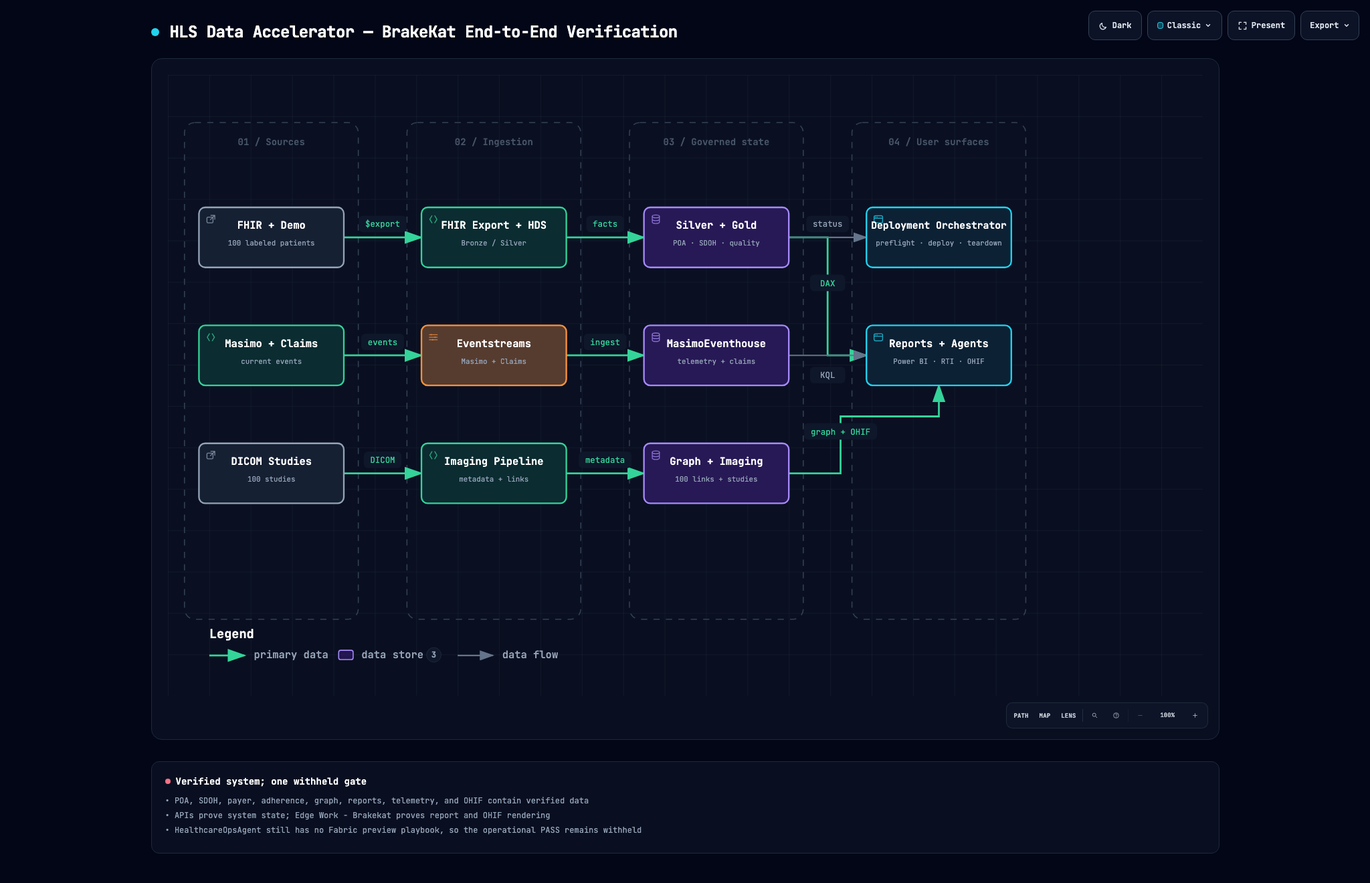
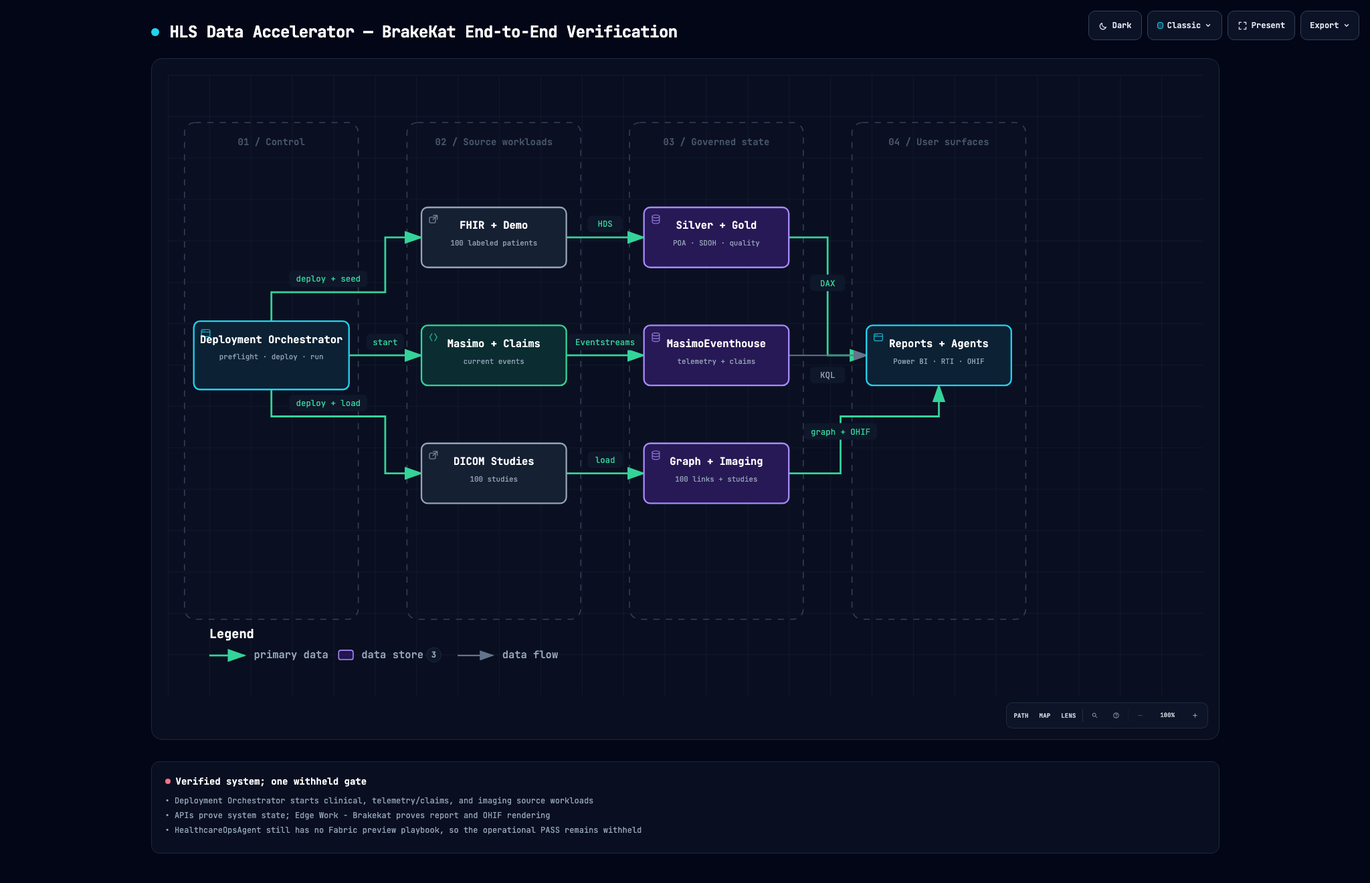
Correct orchestrator dependency flow

diff --git a/docs/hls-end-to-end-verification.html b/docs/hls-end-to-end-verification.html
@@ -5157,10 +5157,10 @@ OTHER DEALINGS IN THE FONT SOFTWARE.
 
         <!-- Data Stages -->
         <rect data-graph-role="structural-frame" data-composition-frame-kind="stage" data-composition-frame-id="0" x="16" y="46" width="168" height="480" rx="10" class="c-lane" stroke-width="1"/>
-        <text x="100" y="68" class="t-dim" font-size="9" font-weight="600" text-anchor="middle">01 / Sources</text>
+        <text x="100" y="68" class="t-dim" font-size="9" font-weight="600" text-anchor="middle">01 / Control</text>
 
         <rect data-graph-role="structural-frame" data-composition-frame-kind="stage" data-composition-frame-id="1" x="231" y="46" width="168" height="480" rx="10" class="c-lane" stroke-width="1"/>
-        <text x="315" y="68" class="t-dim" font-size="9" font-weight="600" text-anchor="middle">02 / Ingestion</text>
+        <text x="315" y="68" class="t-dim" font-size="9" font-weight="600" text-anchor="middle">02 / Source workloads</text>
 
         <rect data-graph-role="structural-frame" data-composition-frame-kind="stage" data-composition-frame-id="2" x="446" y="46" width="168" height="480" rx="10" class="c-lane" stroke-width="1"/>
         <text x="530" y="68" class="t-dim" font-size="9" font-weight="600" text-anchor="middle">03 / Governed state</text>
@@ -5169,93 +5169,53 @@ OTHER DEALINGS IN THE FONT SOFTWARE.
         <text x="745" y="68" class="t-dim" font-size="9" font-weight="600" text-anchor="middle">04 / User surfaces</text>
 
         <!-- Flow paths -->
-        <path data-edge-from="clinicalSources" data-edge-to="hdsIngest" data-edge-label="$export" data-edge-key="0" data-composition-points="170,157;245,157" d="M 170 157 L 245 157" class="a-emphasis" stroke-width="1.8" marker-end="url(#arrowhead-emphasis)"/>
-        <path data-edge-from="streamSources" data-edge-to="streamIngest" data-edge-label="events" data-edge-key="1" data-composition-points="170,271;245,271" d="M 170 271 L 245 271" class="a-emphasis" stroke-width="1.8" marker-end="url(#arrowhead-emphasis)"/>
-        <path data-edge-from="dicomSources" data-edge-to="imagingIngest" data-edge-label="DICOM" data-edge-key="2" data-composition-points="170,385;245,385" d="M 170 385 L 245 385" class="a-emphasis" stroke-width="1.8" marker-end="url(#arrowhead-emphasis)"/>
-        <path data-edge-from="hdsIngest" data-edge-to="lakehouseState" data-edge-label="facts" data-edge-key="3" data-composition-points="385,157;460,157" d="M 385 157 L 460 157" class="a-emphasis" stroke-width="1.8" marker-end="url(#arrowhead-emphasis)"/>
-        <path data-edge-from="streamIngest" data-edge-to="eventhouseState" data-edge-label="ingest" data-edge-key="4" data-composition-points="385,271;460,271" d="M 385 271 L 460 271" class="a-emphasis" stroke-width="1.8" marker-end="url(#arrowhead-emphasis)"/>
-        <path data-edge-from="imagingIngest" data-edge-to="semanticState" data-edge-label="metadata" data-edge-key="5" data-composition-points="385,385;460,385" d="M 385 385 L 460 385" class="a-emphasis" stroke-width="1.8" marker-end="url(#arrowhead-emphasis)"/>
+        <path data-edge-from="deploymentOrchestrator" data-edge-to="clinicalSources" data-edge-label="deploy + seed" data-edge-key="0" data-composition-points="100,238;100,210;210,210;210,157;245,157" d="M 100 238 L 100 210 L 210 210 L 210 157 L 245 157" class="a-emphasis" stroke-width="1.8" marker-end="url(#arrowhead-emphasis)"/>
+        <path data-edge-from="deploymentOrchestrator" data-edge-to="streamSources" data-edge-label="start" data-edge-key="1" data-composition-points="175,271;245,271" d="M 175 271 L 245 271" class="a-emphasis" stroke-width="1.8" marker-end="url(#arrowhead-emphasis)"/>
+        <path data-edge-from="deploymentOrchestrator" data-edge-to="dicomSources" data-edge-label="deploy + load" data-edge-key="2" data-composition-points="100,304;100,330;210,330;210,385;245,385" d="M 100 304 L 100 330 L 210 330 L 210 385 L 245 385" class="a-emphasis" stroke-width="1.8" marker-end="url(#arrowhead-emphasis)"/>
+        <path data-edge-from="clinicalSources" data-edge-to="lakehouseState" data-edge-label="HDS" data-edge-key="3" data-composition-points="385,157;460,157" d="M 385 157 L 460 157" class="a-emphasis" stroke-width="1.8" marker-end="url(#arrowhead-emphasis)"/>
+        <path data-edge-from="streamSources" data-edge-to="eventhouseState" data-edge-label="Eventstreams" data-edge-key="4" data-composition-points="385,271;460,271" d="M 385 271 L 460 271" class="a-emphasis" stroke-width="1.8" marker-end="url(#arrowhead-emphasis)"/>
+        <path data-edge-from="dicomSources" data-edge-to="semanticState" data-edge-label="load" data-edge-key="5" data-composition-points="385,385;460,385" d="M 385 385 L 460 385" class="a-emphasis" stroke-width="1.8" marker-end="url(#arrowhead-emphasis)"/>
         <path data-edge-from="lakehouseState" data-edge-to="surfaces" data-edge-label="DAX" data-edge-key="6" data-composition-points="600,157;637.5,157;637.5,271;675,271" d="M 600 157 L 637.5 157 L 637.5 271 L 675 271" class="a-emphasis" stroke-width="1.8" marker-end="url(#arrowhead-emphasis)"/>
         <path data-edge-from="eventhouseState" data-edge-to="surfaces" data-edge-label="KQL" data-edge-key="7" data-composition-points="600,271;675,271" d="M 600 271 L 675 271" class="a-default" stroke-width="1.4" marker-end="url(#arrowhead)"/>
         <path data-edge-from="semanticState" data-edge-to="surfaces" data-edge-label="graph + OHIF" data-edge-key="8" data-composition-points="600,385;650,385;650,330;745,330;745,300" d="M 600 385 L 650 385 L 650 330 L 745 330 L 745 300" class="a-emphasis" stroke-width="1.8" marker-end="url(#arrowhead-emphasis)"/>
-        <path data-edge-from="lakehouseState" data-edge-to="deploymentOrchestrator" data-edge-label="status" data-edge-key="9" data-composition-points="600,157;675,157" d="M 600 157 L 675 157" class="a-default" stroke-width="1.4" marker-end="url(#arrowhead)"/>
 
         <!-- Nodes -->
-        <g id="node-clinicalSources" data-node-id="clinicalSources" data-node-label="FHIR + Demo" tabindex="0" role="button" aria-label="Focus FHIR + Demo, 100 labeled patients, 01 / Sources" aria-pressed="false" data-node-kind="external" data-node-sublabel="100 labeled patients" data-node-tag="synthetic provenance" data-node-context="01 / Sources">
-          <title>FHIR + Demo · 100 labeled patients · 01 / Sources · synthetic provenance</title>
-          <rect x="30" y="128" width="140" height="58" rx="6" class="c-mask"/>
-          <rect x="30" y="128" width="140" height="58" rx="6" class="c-external" stroke-width="1.5"/>
-          <g aria-hidden="true" data-semantic-sigil="external" class="semantic-sigil s-external" transform="translate(36 134) scale(0.6875)">
-            <rect x="2.5" y="5" width="8.5" height="8" rx="1.5"/>
-            <path d="M8 2.5h5.5V8M13.5 2.5 7.5 8.5"/>
-          </g>
-          <text data-node-label="" data-detail-anchor="" x="100" y="149" class="t-primary" font-size="10" font-weight="600" text-anchor="middle">FHIR + Demo</text>
-          <text data-detail="context" x="100" y="165" class="t-muted" font-size="7" text-anchor="middle">100 labeled patients</text>
-        <text data-detail="fine" x="100" y="175" class="t-external" font-size="7" text-anchor="middle">synthetic provenance</text>
-        </g>
-
-        <g id="node-streamSources" data-node-id="streamSources" data-node-label="Masimo + Claims" tabindex="0" role="button" aria-label="Focus Masimo + Claims, current events, 01 / Sources" aria-pressed="false" data-node-kind="backend" data-node-sublabel="current events" data-node-tag="Resume from Now" data-node-context="01 / Sources">
-          <title>Masimo + Claims · current events · 01 / Sources · Resume from Now</title>
-          <rect x="30" y="242" width="140" height="58" rx="6" class="c-mask"/>
-          <rect x="30" y="242" width="140" height="58" rx="6" class="c-backend" stroke-width="1.5"/>
-          <g aria-hidden="true" data-semantic-sigil="backend" class="semantic-sigil s-backend" transform="translate(36 248) scale(0.6875)">
-            <path d="M6 3 3 8l3 5M10 3l3 5-3 5"/>
-          </g>
-          <text data-node-label="" data-detail-anchor="" x="100" y="263" class="t-primary" font-size="10" font-weight="600" text-anchor="middle">Masimo + Claims</text>
-          <text data-detail="context" x="100" y="279" class="t-muted" font-size="7" text-anchor="middle">current events</text>
-        <text data-detail="fine" x="100" y="289" class="t-backend" font-size="7" text-anchor="middle">Resume from Now</text>
-        </g>
-
-        <g id="node-dicomSources" data-node-id="dicomSources" data-node-label="DICOM Studies" tabindex="0" role="button" aria-label="Focus DICOM Studies, 100 studies, 01 / Sources" aria-pressed="false" data-node-kind="external" data-node-sublabel="100 studies" data-node-tag="model-linked" data-node-context="01 / Sources">
-          <title>DICOM Studies · 100 studies · 01 / Sources · model-linked</title>
-          <rect x="30" y="356" width="140" height="58" rx="6" class="c-mask"/>
-          <rect x="30" y="356" width="140" height="58" rx="6" class="c-external" stroke-width="1.5"/>
-          <g aria-hidden="true" data-semantic-sigil="external" class="semantic-sigil s-external" transform="translate(36 362) scale(0.6875)">
-            <rect x="2.5" y="5" width="8.5" height="8" rx="1.5"/>
-            <path d="M8 2.5h5.5V8M13.5 2.5 7.5 8.5"/>
-          </g>
-          <text data-node-label="" data-detail-anchor="" x="100" y="377" class="t-primary" font-size="10" font-weight="600" text-anchor="middle">DICOM Studies</text>
-          <text data-detail="context" x="100" y="393" class="t-muted" font-size="7" text-anchor="middle">100 studies</text>
-        <text data-detail="fine" x="100" y="403" class="t-external" font-size="7" text-anchor="middle">model-linked</text>
-        </g>
-
-        <g id="node-hdsIngest" data-node-id="hdsIngest" data-node-label="FHIR Export + HDS" tabindex="0" role="button" aria-label="Focus FHIR Export + HDS, Bronze / Silver, 02 / Ingestion" aria-pressed="false" data-node-kind="backend" data-node-sublabel="Bronze / Silver" data-node-tag="HDS 1.4" data-node-context="02 / Ingestion">
-          <title>FHIR Export + HDS · Bronze / Silver · 02 / Ingestion · HDS 1.4</title>
+        <g id="node-clinicalSources" data-node-id="clinicalSources" data-node-label="FHIR + Demo" tabindex="0" role="button" aria-label="Focus FHIR + Demo, 100 labeled patients, 02 / Source workloads" aria-pressed="false" data-node-kind="external" data-node-sublabel="100 labeled patients" data-node-tag="synthetic provenance" data-node-context="02 / Source workloads">
+          <title>FHIR + Demo · 100 labeled patients · 02 / Source workloads · synthetic provenance</title>
           <rect x="245" y="128" width="140" height="58" rx="6" class="c-mask"/>
-          <rect x="245" y="128" width="140" height="58" rx="6" class="c-backend" stroke-width="1.5"/>
-          <g aria-hidden="true" data-semantic-sigil="backend" class="semantic-sigil s-backend" transform="translate(251 134) scale(0.6875)">
-            <path d="M6 3 3 8l3 5M10 3l3 5-3 5"/>
+          <rect x="245" y="128" width="140" height="58" rx="6" class="c-external" stroke-width="1.5"/>
+          <g aria-hidden="true" data-semantic-sigil="external" class="semantic-sigil s-external" transform="translate(251 134) scale(0.6875)">
+            <rect x="2.5" y="5" width="8.5" height="8" rx="1.5"/>
+            <path d="M8 2.5h5.5V8M13.5 2.5 7.5 8.5"/>
           </g>
-          <text data-node-label="" data-detail-anchor="" x="315" y="149" class="t-primary" font-size="10" font-weight="600" text-anchor="middle">FHIR Export + HDS</text>
-          <text data-detail="context" x="315" y="165" class="t-muted" font-size="7" text-anchor="middle">Bronze / Silver</text>
-        <text data-detail="fine" x="315" y="175" class="t-backend" font-size="7" text-anchor="middle">HDS 1.4</text>
+          <text data-node-label="" data-detail-anchor="" x="315" y="149" class="t-primary" font-size="10" font-weight="600" text-anchor="middle">FHIR + Demo</text>
+          <text data-detail="context" x="315" y="165" class="t-muted" font-size="7" text-anchor="middle">100 labeled patients</text>
+        <text data-detail="fine" x="315" y="175" class="t-external" font-size="7" text-anchor="middle">synthetic provenance</text>
         </g>
 
-        <g id="node-streamIngest" data-node-id="streamIngest" data-node-label="Eventstreams" tabindex="0" role="button" aria-label="Focus Eventstreams, Masimo + Claims, 02 / Ingestion" aria-pressed="false" data-node-kind="messagebus" data-node-sublabel="Masimo + Claims" data-node-tag="all nodes Running" data-node-context="02 / Ingestion">
-          <title>Eventstreams · Masimo + Claims · 02 / Ingestion · all nodes Running</title>
+        <g id="node-streamSources" data-node-id="streamSources" data-node-label="Masimo + Claims" tabindex="0" role="button" aria-label="Focus Masimo + Claims, current events, 02 / Source workloads" aria-pressed="false" data-node-kind="backend" data-node-sublabel="current events" data-node-tag="Resume from Now" data-node-context="02 / Source workloads">
+          <title>Masimo + Claims · current events · 02 / Source workloads · Resume from Now</title>
           <rect x="245" y="242" width="140" height="58" rx="6" class="c-mask"/>
-          <rect x="245" y="242" width="140" height="58" rx="6" class="c-messagebus" stroke-width="1.5"/>
-          <g aria-hidden="true" data-semantic-sigil="messagebus" class="semantic-sigil s-messagebus" transform="translate(251 248) scale(0.6875)">
-            <path d="M2.5 4.5h11M2.5 8h11M2.5 11.5h11"/>
-            <circle cx="5" cy="4.5" r="1" class="sigil-fill"/>
-            <circle cx="10.5" cy="8" r="1" class="sigil-fill"/>
-            <circle cx="7" cy="11.5" r="1" class="sigil-fill"/>
-          </g>
-          <text data-node-label="" data-detail-anchor="" x="315" y="263" class="t-primary" font-size="10" font-weight="600" text-anchor="middle">Eventstreams</text>
-          <text data-detail="context" x="315" y="279" class="t-muted" font-size="7" text-anchor="middle">Masimo + Claims</text>
-        <text data-detail="fine" x="315" y="289" class="t-messagebus" font-size="7" text-anchor="middle">all nodes Running</text>
-        </g>
-
-        <g id="node-imagingIngest" data-node-id="imagingIngest" data-node-label="Imaging Pipeline" tabindex="0" role="button" aria-label="Focus Imaging Pipeline, metadata + links, 02 / Ingestion" aria-pressed="false" data-node-kind="backend" data-node-sublabel="metadata + links" data-node-tag="study-preserving" data-node-context="02 / Ingestion">
-          <title>Imaging Pipeline · metadata + links · 02 / Ingestion · study-preserving</title>
-          <rect x="245" y="356" width="140" height="58" rx="6" class="c-mask"/>
-          <rect x="245" y="356" width="140" height="58" rx="6" class="c-backend" stroke-width="1.5"/>
-          <g aria-hidden="true" data-semantic-sigil="backend" class="semantic-sigil s-backend" transform="translate(251 362) scale(0.6875)">
+          <rect x="245" y="242" width="140" height="58" rx="6" class="c-backend" stroke-width="1.5"/>
+          <g aria-hidden="true" data-semantic-sigil="backend" class="semantic-sigil s-backend" transform="translate(251 248) scale(0.6875)">
             <path d="M6 3 3 8l3 5M10 3l3 5-3 5"/>
           </g>
-          <text data-node-label="" data-detail-anchor="" x="315" y="377" class="t-primary" font-size="10" font-weight="600" text-anchor="middle">Imaging Pipeline</text>
-          <text data-detail="context" x="315" y="393" class="t-muted" font-size="7" text-anchor="middle">metadata + links</text>
-        <text data-detail="fine" x="315" y="403" class="t-backend" font-size="7" text-anchor="middle">study-preserving</text>
+          <text data-node-label="" data-detail-anchor="" x="315" y="263" class="t-primary" font-size="10" font-weight="600" text-anchor="middle">Masimo + Claims</text>
+          <text data-detail="context" x="315" y="279" class="t-muted" font-size="7" text-anchor="middle">current events</text>
+        <text data-detail="fine" x="315" y="289" class="t-backend" font-size="7" text-anchor="middle">Resume from Now</text>
+        </g>
+
+        <g id="node-dicomSources" data-node-id="dicomSources" data-node-label="DICOM Studies" tabindex="0" role="button" aria-label="Focus DICOM Studies, 100 studies, 02 / Source workloads" aria-pressed="false" data-node-kind="external" data-node-sublabel="100 studies" data-node-tag="model-linked" data-node-context="02 / Source workloads">
+          <title>DICOM Studies · 100 studies · 02 / Source workloads · model-linked</title>
+          <rect x="245" y="356" width="140" height="58" rx="6" class="c-mask"/>
+          <rect x="245" y="356" width="140" height="58" rx="6" class="c-external" stroke-width="1.5"/>
+          <g aria-hidden="true" data-semantic-sigil="external" class="semantic-sigil s-external" transform="translate(251 362) scale(0.6875)">
+            <rect x="2.5" y="5" width="8.5" height="8" rx="1.5"/>
+            <path d="M8 2.5h5.5V8M13.5 2.5 7.5 8.5"/>
+          </g>
+          <text data-node-label="" data-detail-anchor="" x="315" y="377" class="t-primary" font-size="10" font-weight="600" text-anchor="middle">DICOM Studies</text>
+          <text data-detail="context" x="315" y="393" class="t-muted" font-size="7" text-anchor="middle">100 studies</text>
+        <text data-detail="fine" x="315" y="403" class="t-external" font-size="7" text-anchor="middle">model-linked</text>
         </g>
 
         <g id="node-lakehouseState" data-node-id="lakehouseState" data-node-label="Silver + Gold" tabindex="0" role="button" aria-label="Focus Silver + Gold, POA · SDOH · quality, 03 / Governed state" aria-pressed="false" data-node-kind="database" data-node-sublabel="POA · SDOH · quality" data-node-tag="facts populated" data-node-context="03 / Governed state">
@@ -5312,45 +5272,45 @@ OTHER DEALINGS IN THE FONT SOFTWARE.
         <text data-detail="fine" x="745" y="289" class="t-frontend" font-size="7" text-anchor="middle">Edge for rendering</text>
         </g>
 
-        <g id="node-deploymentOrchestrator" data-node-id="deploymentOrchestrator" data-node-label="Deployment Orchestrator" tabindex="0" role="button" aria-label="Focus Deployment Orchestrator, preflight · deploy · teardown, 04 / User surfaces" aria-pressed="false" data-node-kind="frontend" data-node-sublabel="preflight · deploy · teardown" data-node-tag="custom web UI" data-node-context="04 / User surfaces">
-          <title>Deployment Orchestrator · preflight · deploy · teardown · 04 / User surfaces · custom web UI</title>
-          <rect x="675" y="128" width="140" height="58" rx="6" class="c-mask"/>
-          <rect x="675" y="128" width="140" height="58" rx="6" class="c-frontend" stroke-width="1.5"/>
-          <g aria-hidden="true" data-semantic-sigil="frontend" class="semantic-sigil s-frontend" transform="translate(681 134) scale(0.6875)">
+        <g id="node-deploymentOrchestrator" data-node-id="deploymentOrchestrator" data-node-label="Deployment Orchestrator" tabindex="0" role="button" aria-label="Focus Deployment Orchestrator, preflight · deploy · run, 01 / Control" aria-pressed="false" data-node-kind="frontend" data-node-sublabel="preflight · deploy · run" data-node-tag="custom control UI" data-node-context="01 / Control">
+          <title>Deployment Orchestrator · preflight · deploy · run · 01 / Control · custom control UI</title>
+          <rect x="25" y="238" width="150" height="66" rx="6" class="c-mask"/>
+          <rect x="25" y="238" width="150" height="66" rx="6" class="c-frontend" stroke-width="1.5"/>
+          <g aria-hidden="true" data-semantic-sigil="frontend" class="semantic-sigil s-frontend" transform="translate(31 244) scale(0.6875)">
             <rect x="2" y="3" width="12" height="10" rx="2"/>
             <path d="M2 6.5h12"/>
             <circle cx="4.1" cy="4.8" r=".7" class="sigil-fill"/>
             <circle cx="6.3" cy="4.8" r=".7" class="sigil-fill"/>
           </g>
-          <text data-node-label="" data-detail-anchor="" x="745" y="149" class="t-primary" font-size="9.5" font-weight="600" text-anchor="middle">Deployment Orchestrator</text>
-          <text data-detail="context" x="745" y="165" class="t-muted" font-size="7" text-anchor="middle">preflight · deploy · teardown</text>
-        <text data-detail="fine" x="745" y="175" class="t-frontend" font-size="7" text-anchor="middle">custom web UI</text>
+          <text data-node-label="" data-detail-anchor="" x="100" y="259" class="t-primary" font-size="10" font-weight="600" text-anchor="middle">Deployment Orchestrator</text>
+          <text data-detail="context" x="100" y="275" class="t-muted" font-size="7" text-anchor="middle">preflight · deploy · run</text>
+        <text data-detail="fine" x="100" y="293" class="t-frontend" font-size="7" text-anchor="middle">custom control UI</text>
         </g>
 
         <!-- Flow labels -->
-        <g data-detail="context" data-edge-from="clinicalSources" data-edge-to="hdsIngest" data-edge-label="$export" data-edge-key="0">
-          <rect x="184.35" y="136" width="46.3" height="16" rx="4" class="c-mask"/>
-          <text x="207.5" y="147" class="t-backend" font-size="8" text-anchor="middle">$export</text>
+        <g data-detail="context" data-edge-from="deploymentOrchestrator" data-edge-to="clinicalSources" data-edge-label="deploy + seed" data-edge-key="0">
+          <rect x="117.15" y="189" width="75.7" height="16" rx="4" class="c-mask"/>
+          <text x="155" y="200" class="t-backend" font-size="8" text-anchor="middle">deploy + seed</text>
         </g>
-        <g data-detail="context" data-edge-from="streamSources" data-edge-to="streamIngest" data-edge-label="events" data-edge-key="1">
-          <rect x="186.8" y="250" width="41.4" height="16" rx="4" class="c-mask"/>
-          <text x="207.5" y="261" class="t-backend" font-size="8" text-anchor="middle">events</text>
+        <g data-detail="context" data-edge-from="deploymentOrchestrator" data-edge-to="streamSources" data-edge-label="start" data-edge-key="1">
+          <rect x="191.75" y="250" width="36.5" height="16" rx="4" class="c-mask"/>
+          <text x="210" y="261" class="t-backend" font-size="8" text-anchor="middle">start</text>
         </g>
-        <g data-detail="context" data-edge-from="dicomSources" data-edge-to="imagingIngest" data-edge-label="DICOM" data-edge-key="2">
-          <rect x="189.25" y="364" width="36.5" height="16" rx="4" class="c-mask"/>
-          <text x="207.5" y="375" class="t-backend" font-size="8" text-anchor="middle">DICOM</text>
+        <g data-detail="context" data-edge-from="deploymentOrchestrator" data-edge-to="dicomSources" data-edge-label="deploy + load" data-edge-key="2">
+          <rect x="117.15" y="309" width="75.7" height="16" rx="4" class="c-mask"/>
+          <text x="155" y="320" class="t-backend" font-size="8" text-anchor="middle">deploy + load</text>
         </g>
-        <g data-detail="context" data-edge-from="hdsIngest" data-edge-to="lakehouseState" data-edge-label="facts" data-edge-key="3">
-          <rect x="404.25" y="136" width="36.5" height="16" rx="4" class="c-mask"/>
-          <text x="422.5" y="147" class="t-backend" font-size="8" text-anchor="middle">facts</text>
+        <g data-detail="context" data-edge-from="clinicalSources" data-edge-to="lakehouseState" data-edge-label="HDS" data-edge-key="3">
+          <rect x="405.5" y="136" width="34" height="16" rx="4" class="c-mask"/>
+          <text x="422.5" y="147" class="t-backend" font-size="8" text-anchor="middle">HDS</text>
         </g>
-        <g data-detail="context" data-edge-from="streamIngest" data-edge-to="eventhouseState" data-edge-label="ingest" data-edge-key="4">
-          <rect x="401.8" y="250" width="41.4" height="16" rx="4" class="c-mask"/>
-          <text x="422.5" y="261" class="t-backend" font-size="8" text-anchor="middle">ingest</text>
+        <g data-detail="context" data-edge-from="streamSources" data-edge-to="eventhouseState" data-edge-label="Eventstreams" data-edge-key="4">
+          <rect x="387.1" y="250" width="70.8" height="16" rx="4" class="c-mask"/>
+          <text x="422.5" y="261" class="t-backend" font-size="8" text-anchor="middle">Eventstreams</text>
         </g>
-        <g data-detail="context" data-edge-from="imagingIngest" data-edge-to="semanticState" data-edge-label="metadata" data-edge-key="5">
-          <rect x="396.9" y="364" width="51.2" height="16" rx="4" class="c-mask"/>
-          <text x="422.5" y="375" class="t-backend" font-size="8" text-anchor="middle">metadata</text>
+        <g data-detail="context" data-edge-from="dicomSources" data-edge-to="semanticState" data-edge-label="load" data-edge-key="5">
+          <rect x="405.5" y="364" width="34" height="16" rx="4" class="c-mask"/>
+          <text x="422.5" y="375" class="t-backend" font-size="8" text-anchor="middle">load</text>
         </g>
         <g data-detail="context" data-edge-from="lakehouseState" data-edge-to="surfaces" data-edge-label="DAX" data-edge-key="6">
           <rect x="620.5" y="193" width="34" height="16" rx="4" class="c-mask"/>
@@ -5363,10 +5323,6 @@ OTHER DEALINGS IN THE FONT SOFTWARE.
         <g data-detail="context" data-edge-from="semanticState" data-edge-to="surfaces" data-edge-label="graph + OHIF" data-edge-key="8">
           <rect x="614.6" y="336.5" width="70.8" height="16" rx="4" class="c-mask"/>
           <text x="650" y="347.5" class="t-backend" font-size="8" text-anchor="middle">graph + OHIF</text>
-        </g>
-        <g data-detail="context" data-edge-from="lakehouseState" data-edge-to="deploymentOrchestrator" data-edge-label="status" data-edge-key="9">
-          <rect x="616.8" y="136" width="41.4" height="16" rx="4" class="c-mask"/>
-          <text x="637.5" y="147" class="t-muted" font-size="8" text-anchor="middle">status</text>
         </g>
 
         <!-- Legend -->
@@ -5577,7 +5533,7 @@ OTHER DEALINGS IN THE FONT SOFTWARE.
           <h3>Verified system; one withheld gate</h3>
         </div>
         <ul>
-          <li>&bull; POA, SDOH, payer, adherence, graph, reports, telemetry, and OHIF contain verified data</li>
+          <li>&bull; Deployment Orchestrator starts clinical, telemetry/claims, and imaging source workloads</li>
           <li>&bull; APIs prove system state; Edge Work - Brakekat proves report and OHIF rendering</li>
           <li>&bull; HealthcareOpsAgent still has no Fabric preview playbook, so the operational PASS remains withheld</li>
         </ul>
